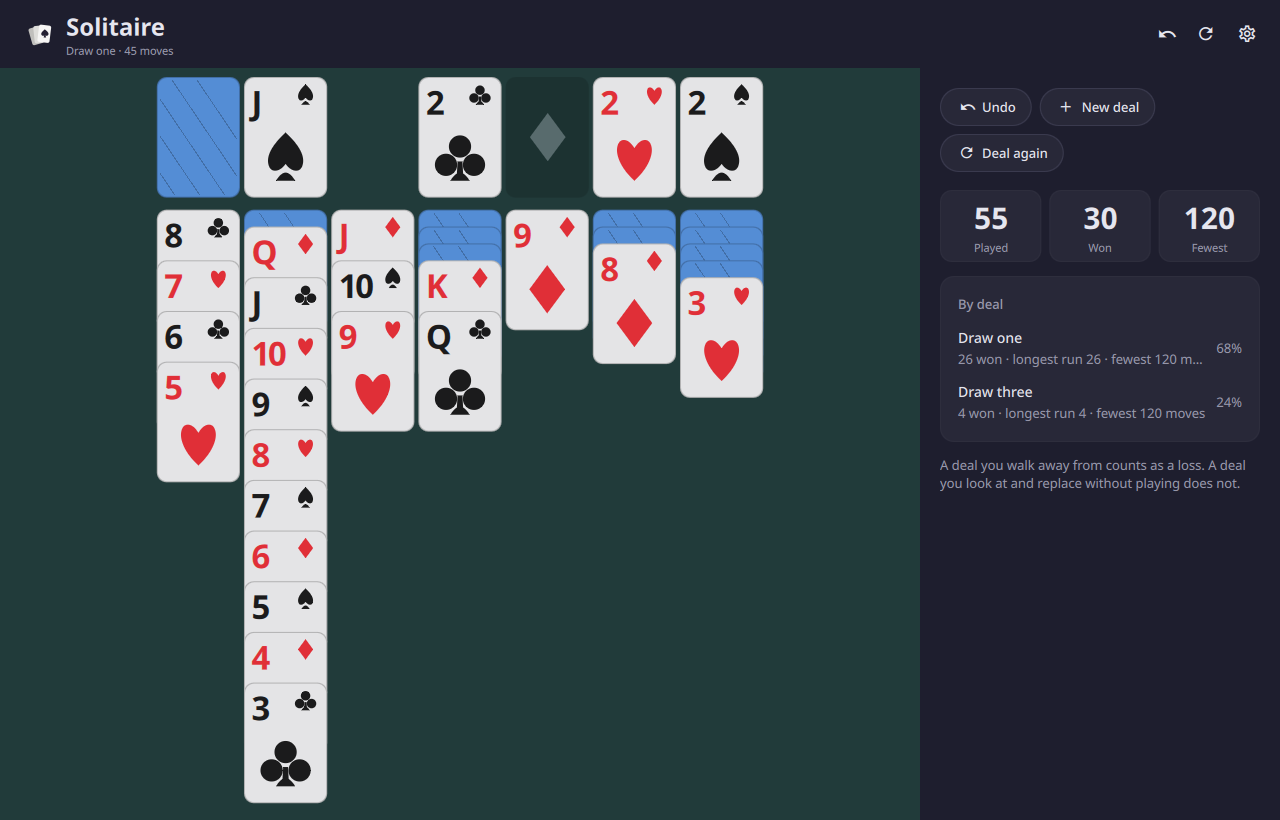
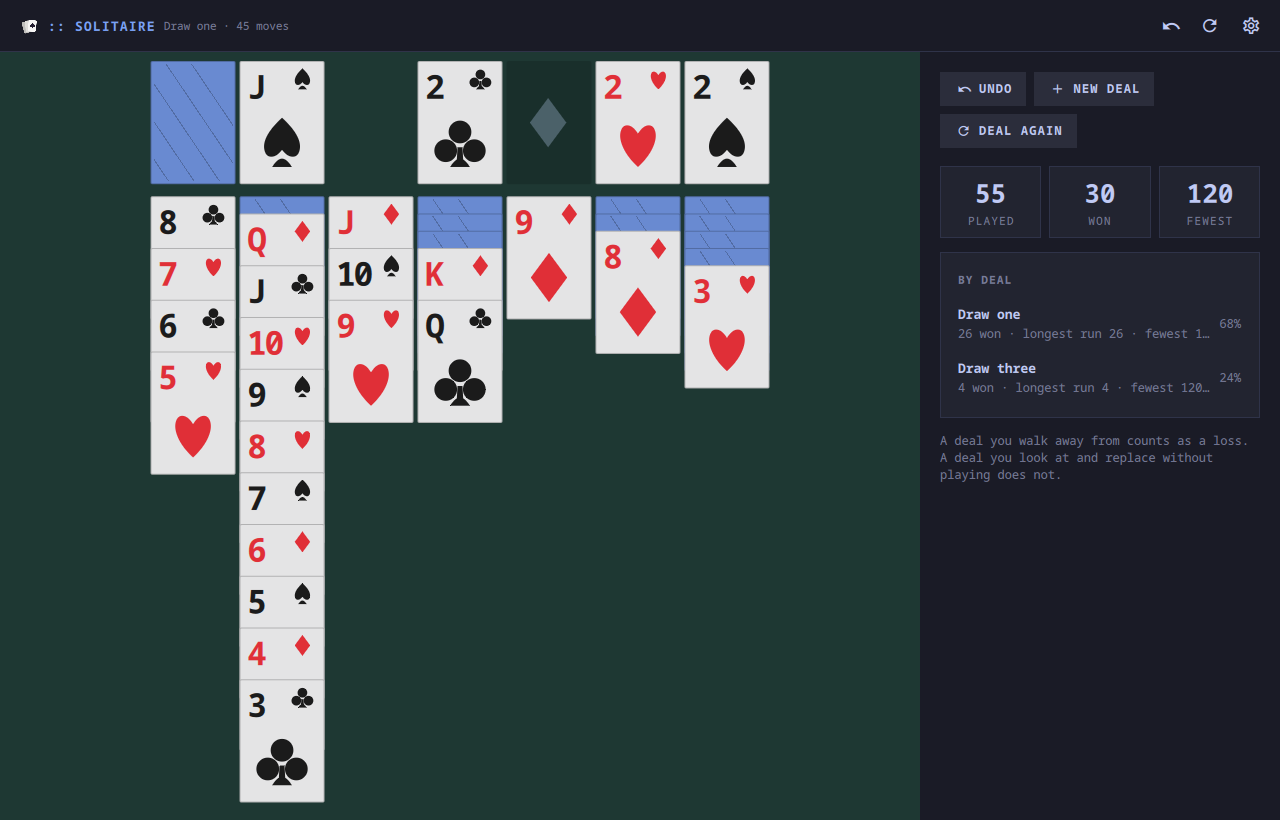
Solitaire in Omarchy's look: near-square cards, lined boxes
A card keeps a two-pixel corner on a square screen -- without one it reads
as a tile, not a card -- and gets its full curve back with a rounded theme;
the empty piles and the pick and drop rings follow it. The notice and the
record's figures are square lined boxes, and the new-deal sheet labels its
choice in capitals.

diff --git a/apps/solitaire/Panel.qml b/apps/solitaire/Panel.qml
@@ -408,10 +408,12 @@ App {
 
     Text {
       text: "Turn over"
-      color: root.ui.text
+      color: root.ui.muted
       font.family: root.ui.font
-      font.pixelSize: root.ui.fs.md
-      font.weight: Font.DemiBold
+      font.pixelSize: root.ui.fs.xs
+      font.weight: Font.Bold
+      font.capitalization: Font.AllUppercase
+      font.letterSpacing: root.ui.tracking
     }
     Flow {
       width: parent.width
@@ -463,7 +465,7 @@ App {
       color: root.ui.text
       font.family: root.ui.font
       font.pixelSize: root.ui.fs.sm
-      font.weight: Font.DemiBold
+      font.weight: Font.Bold
     }
     Button {
       id: phoneNoticeButton
@@ -558,10 +560,10 @@ App {
           visible: root.notice !== null
           width: parent.width
           height: visible ? noticeCol.implicitHeight + 28 : 0
-          radius: root.ui.radius + 4
+          radius: root.ui.radius
           color: root.ui.accentSoft
           border.width: 1
-          border.color: root.ui.alpha(root.ui.accent, 0.4)
+          border.color: root.ui.accent
           Column {
             id: noticeCol
             x: 14
@@ -575,7 +577,7 @@ App {
               color: root.ui.text
               font.family: root.ui.font
               font.pixelSize: root.ui.fs.md
-              font.weight: Font.DemiBold
+              font.weight: Font.Bold
             }
             Button {
               app: root

diff --git a/apps/solitaire/RecordView.qml b/apps/solitaire/RecordView.qml
@@ -25,10 +25,10 @@ Column {
         required property var modelData
         width: (root.width - 16) / 3
         height: 72
-        radius: root.app.ui.radius + 2
+        radius: root.app.ui.radius
         color: root.app.ui.surface
         border.width: 1
-        border.color: root.app.ui.divider
+        border.color: root.app.ui.line
         Column {
           anchors.centerIn: parent
           spacing: 2
@@ -47,6 +47,8 @@ Column {
             color: root.app.ui.muted
             font.family: root.app.ui.font
             font.pixelSize: root.app.ui.fs.xs
+            font.capitalization: Font.AllUppercase
+            font.letterSpacing: root.app.ui.tracking
           }
         }
       }
@@ -74,7 +76,7 @@ Column {
             color: root.app.ui.text
             font.family: root.app.ui.font
             font.pixelSize: root.app.ui.fs.md
-            font.weight: Font.DemiBold
+            font.weight: Font.Bold
           }
           Text {
             width: parent.width

diff --git a/apps/solitaire/Table.qml b/apps/solitaire/Table.qml
@@ -77,7 +77,7 @@ Item {
       y: r.y
       width: r.w
       height: r.h
-      radius: width * 0.12
+      radius: root.app.ui.radius > 0 ? width * 0.12 : 2
       color: root.app.ui.slot
       Pip {
         visible: K.isFoundation(slot.index)
@@ -136,7 +136,7 @@ Item {
     y: first ? first.y - 1 : 0
     width: first ? first.w + 2 : 0
     height: first && last ? last.y + last.h - first.y + 2 : 0
-    radius: width * 0.12
+    radius: root.app.ui.radius > 0 ? width * 0.12 : 2
     color: "transparent"
     border.width: 3
     border.color: root.app.ui.pick
@@ -151,7 +151,7 @@ Item {
       y: r.y - 1
       width: r.w + 2
       height: r.h + 2
-      radius: width * 0.12
+      radius: root.app.ui.radius > 0 ? width * 0.12 : 2
       color: root.app.ui.alpha(root.app.ui.pick, 0.14)
       border.width: 2.5
       border.color: root.app.ui.drop

diff --git a/apps/solitaire/PlayingCard.qml b/apps/solitaire/PlayingCard.qml
@@ -15,7 +15,10 @@ Rectangle {
   // Nothing on top of it.
   property bool full: true
 
-  radius: width * 0.12
+  // A card keeps a sliver of a corner even on a square screen: without one it
+  // reads as a tile, not a card. The full curve comes back with a rounded
+  // theme.
+  radius: app.ui.radius > 0 ? width * 0.12 : 2
   color: faceUp ? app.ui.cardFace : app.ui.cardBack
   border.width: 1
   border.color: faceUp ? app.ui.cardEdge : app.ui.cardBackLine
